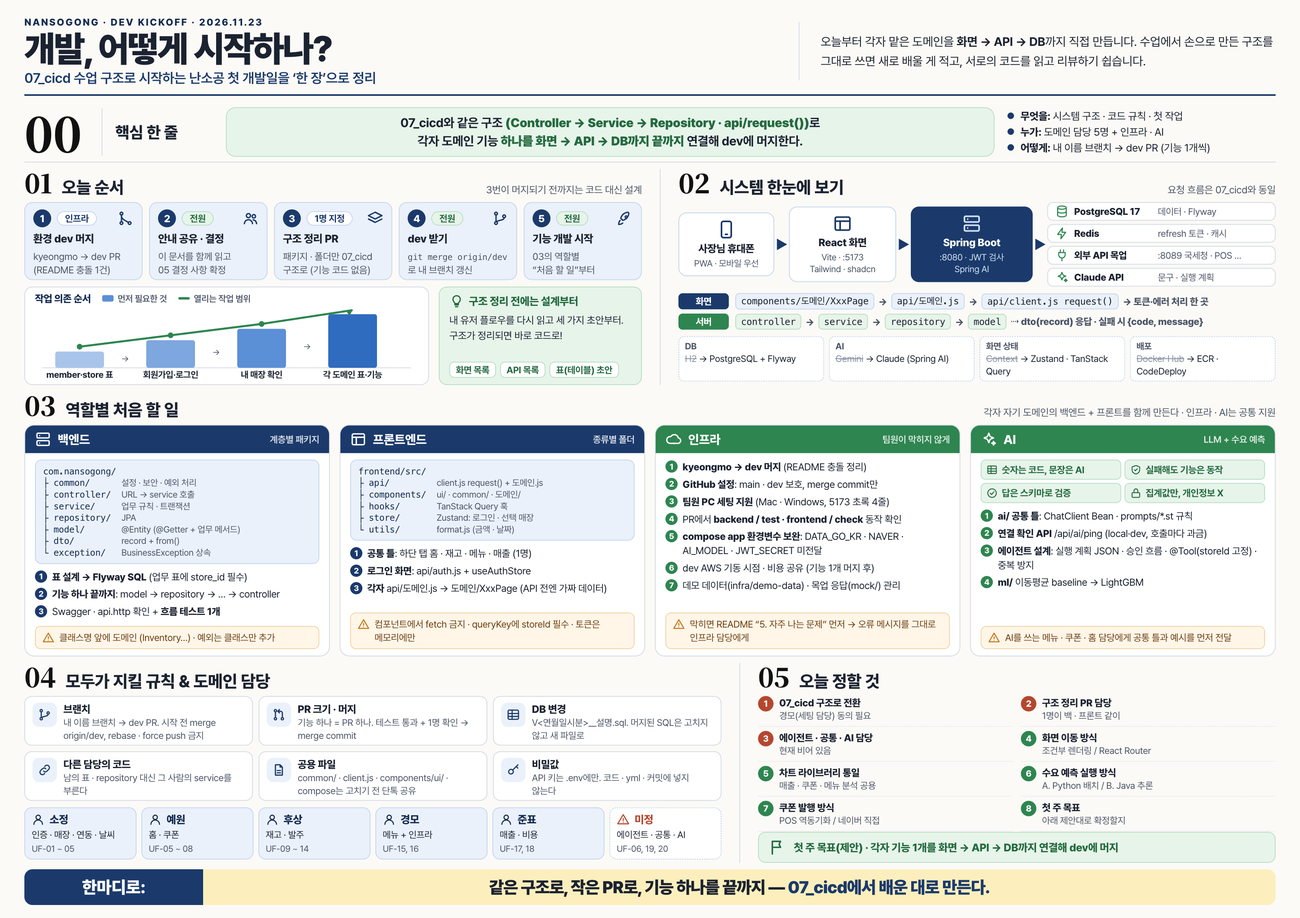
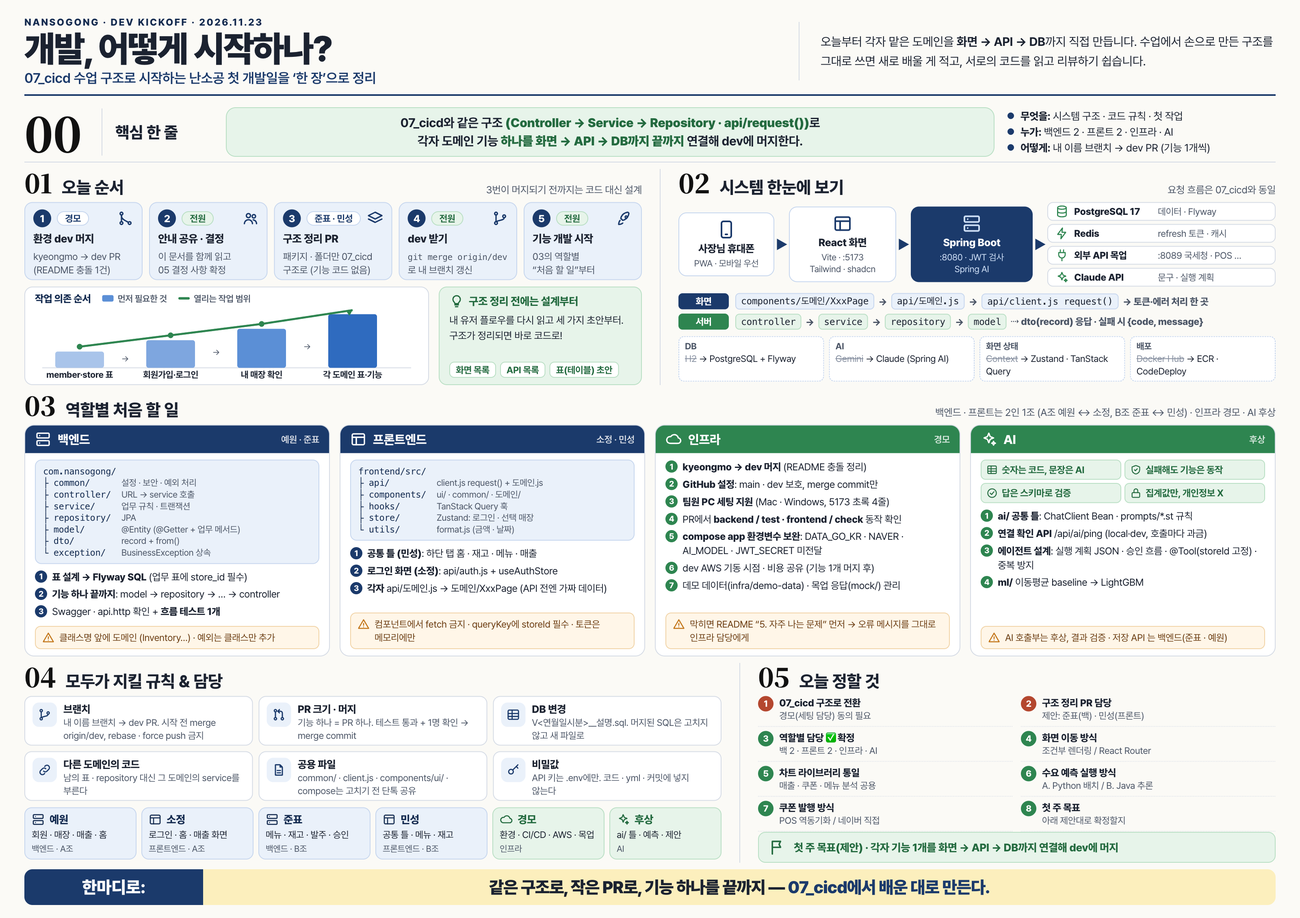
[DOCS]: 역할별 담당 배분 반영
- 백엔드 예원(A조) · 준표(B조), 프론트 소정(A조) · 민성(B조), 인프라 경모, AI 후상
- README 담당 표, package-info 11개, features/README 의 도메인별 담당 수정
- 데모 데이터 · 목업 · ml 의 "담당자" 표기를 실제 역할로 수정
- 개발 시작 안내 7장 · 인포그래픽 담당 갱신

diff --git a/docs/notice/kickoff-infographic.html b/docs/notice/kickoff-infographic.html
@@ -132,10 +132,10 @@ ol.todo li b{font-weight:800}
 .own{border:1px solid var(--navy-b);border-radius:9px;background:var(--navy-l);padding:6px 8px;display:flex;flex-direction:column;gap:3px}
 .own .nm{display:flex;align-items:center;gap:6px;font-size:13.5px;font-weight:800;color:var(--navy-d)}
 .own .nm svg{width:16px;height:16px}
-.own .dm{font-size:11.5px;line-height:1.35}
+.own .dm{font-size:11.5px;line-height:1.35;white-space:nowrap}
 .own .uf{font-size:10.8px;color:var(--muted)}
-.own.tbd{background:#fff;border-style:dashed}
-.own.tbd .nm{color:var(--warn)}
+.own.mint{background:var(--mint-l);border-color:var(--mint-b)}
+.own.mint .nm{color:var(--mint-d)}
 
 /* 05 decisions */
 .dec{display:grid;grid-template-columns:1fr 1fr;gap:5px 10px}
@@ -208,7 +208,7 @@ ol.todo li b{font-weight:800}
       각자 도메인 기능 <b>하나를 화면 → API → DB까지 끝까지</b> 연결해 dev에 머지한다.</div>
     <ul>
       <li><b>무엇을:</b> 시스템 구조 · 코드 규칙 · 첫 작업</li>
-      <li><b>누가:</b> 도메인 담당 5명 + 인프라 · AI</li>
+      <li><b>누가:</b> 백엔드 2 · 프론트 2 · 인프라 · AI</li>
       <li><b>어떻게:</b> 내 이름 브랜치 → dev PR (기능 1개씩)</li>
     </ul>
   </section>
@@ -218,11 +218,11 @@ ol.todo li b{font-weight:800}
     <section class="sec">
       <div class="sh"><span class="num">01</span><h2>오늘 순서</h2><span class="note">3번이 머지되기 전까지는 코드 대신 설계</span></div>
       <div class="steps">
-        <div class="step"><div class="top"><span class="badge">1</span><span class="who">인프라</span><svg class="i"><use href="#i-merge"/></svg></div>
+        <div class="step"><div class="top"><span class="badge">1</span><span class="who">경모</span><svg class="i"><use href="#i-merge"/></svg></div>
           <h3>환경 dev 머지</h3><p>kyeongmo → dev PR<br>(README 충돌 1건)</p></div>
         <div class="step"><div class="top"><span class="badge">2</span><span class="who all">전원</span><svg class="i"><use href="#i-users"/></svg></div>
           <h3>안내 공유 · 결정</h3><p>이 문서를 함께 읽고<br>05 결정 사항 확정</p></div>
-        <div class="step"><div class="top"><span class="badge">3</span><span class="who">1명 지정</span><svg class="i"><use href="#i-layers"/></svg></div>
+        <div class="step"><div class="top"><span class="badge">3</span><span class="who">준표 · 민성</span><svg class="i"><use href="#i-layers"/></svg></div>
           <h3>구조 정리 PR</h3><p>패키지 · 폴더만 07_cicd<br>구조로 (기능 코드 없음)</p></div>
         <div class="step"><div class="top"><span class="badge">4</span><span class="who all">전원</span><svg class="i"><use href="#i-git"/></svg></div>
           <h3>dev 받기</h3><p><code style="font-family:var(--mono);font-size:10.5px">git merge origin/dev</code> 로 내 브랜치 갱신</p></div>
@@ -293,10 +293,10 @@ ol.todo li b{font-weight:800}
 
   <!-- ROW B : 03 -->
   <section class="sec">
-    <div class="sh"><span class="num">03</span><h2>역할별 처음 할 일</h2><span class="note">각자 자기 도메인의 백엔드 + 프론트를 함께 만든다 · 인프라 · AI는 공통 지원</span></div>
+    <div class="sh"><span class="num">03</span><h2>역할별 처음 할 일</h2><span class="note">백엔드 · 프론트는 2인 1조 (A조 예원 ↔ 소정, B조 준표 ↔ 민성) · 인프라 경모 · AI 후상</span></div>
     <div class="roles">
       <div class="role">
-        <div class="rh"><svg class="i"><use href="#i-server"/></svg>백엔드<small>계층별 패키지</small></div>
+        <div class="rh"><svg class="i"><use href="#i-server"/></svg>백엔드<small>예원 · 준표</small></div>
         <div class="rb">
 <pre class="tree">com.nansogong/
 ├ common/      <em>설정 · 보안 · 예외 처리</em>
@@ -315,7 +315,7 @@ ol.todo li b{font-weight:800}
         </div>
       </div>
       <div class="role">
-        <div class="rh"><svg class="i"><use href="#i-layout"/></svg>프론트엔드<small>종류별 폴더</small></div>
+        <div class="rh"><svg class="i"><use href="#i-layout"/></svg>프론트엔드<small>소정 · 민성</small></div>
         <div class="rb">
 <pre class="tree">frontend/src/
 ├ api/         <em>client.js request() + 도메인.js</em>
@@ -324,15 +324,15 @@ ol.todo li b{font-weight:800}
 ├ store/       <em>Zustand: 로그인 · 선택 매장</em>
 └ utils/       <em>format.js (금액 · 날짜)</em></pre>
           <ol class="todo">
-            <li><b>공통 틀</b>: 하단 탭 홈 · 재고 · 메뉴 · 매출 (1명)</li>
-            <li><b>로그인 화면</b>: api/auth.js + useAuthStore</li>
+            <li><b>공통 틀 (민성)</b>: 하단 탭 홈 · 재고 · 메뉴 · 매출</li>
+            <li><b>로그인 화면 (소정)</b>: api/auth.js + useAuthStore</li>
             <li><b>각자</b> api/도메인.js → 도메인/XxxPage (API 전엔 가짜 데이터)</li>
           </ol>
           <div class="warn"><svg class="i"><use href="#i-alert"/></svg><span>컴포넌트에서 fetch 금지 · queryKey에 storeId 필수 · 토큰은 메모리에만</span></div>
         </div>
       </div>
       <div class="role mint">
-        <div class="rh"><svg class="i"><use href="#i-cloud"/></svg>인프라<small>팀원이 막히지 않게</small></div>
+        <div class="rh"><svg class="i"><use href="#i-cloud"/></svg>인프라<small>경모</small></div>
         <div class="rb">
           <ol class="todo">
             <li><b>kyeongmo → dev 머지</b> (README 충돌 정리)</li>
@@ -347,7 +347,7 @@ ol.todo li b{font-weight:800}
         </div>
       </div>
       <div class="role mint">
-        <div class="rh"><svg class="i"><use href="#i-spark"/></svg>AI<small>LLM + 수요 예측</small></div>
+        <div class="rh"><svg class="i"><use href="#i-spark"/></svg>AI<small>후상</small></div>
         <div class="rb">
           <div class="prin">
             <div><svg class="i"><use href="#i-table"/></svg>숫자는 코드, 문장은 AI</div>
@@ -361,7 +361,7 @@ ol.todo li b{font-weight:800}
             <li><b>에이전트 설계</b>: 실행 계획 JSON · 승인 흐름 · @Tool(storeId 고정) · 중복 방지</li>
             <li><b>ml/</b> 이동평균 baseline → LightGBM</li>
           </ol>
-          <div class="warn"><svg class="i"><use href="#i-alert"/></svg><span>AI를 쓰는 메뉴 · 쿠폰 · 홈 담당에게 공통 틀과 예시를 먼저 전달</span></div>
+          <div class="warn"><svg class="i"><use href="#i-alert"/></svg><span>AI 호출부는 후상, 결과 검증 · 저장 API 는 백엔드(준표 · 예원)</span></div>
         </div>
       </div>
     </div>
@@ -370,22 +370,22 @@ ol.todo li b{font-weight:800}
   <!-- ROW C : 04 + 05 -->
   <div class="row rC">
     <section class="sec">
-      <div class="sh"><span class="num">04</span><h2>모두가 지킬 규칙 &amp; 도메인 담당</h2></div>
+      <div class="sh"><span class="num">04</span><h2>모두가 지킬 규칙 &amp; 담당</h2></div>
       <div class="rules">
         <div class="rule"><span class="ic"><svg class="i"><use href="#i-git"/></svg></span><div><b>브랜치</b><p>내 이름 브랜치 → dev PR. 시작 전 merge origin/dev, rebase · force push 금지</p></div></div>
         <div class="rule"><span class="ic"><svg class="i"><use href="#i-pr"/></svg></span><div><b>PR 크기 · 머지</b><p>기능 하나 = PR 하나. 테스트 통과 + 1명 확인 → merge commit</p></div></div>
         <div class="rule"><span class="ic"><svg class="i"><use href="#i-table"/></svg></span><div><b>DB 변경</b><p>V&lt;연월일시분&gt;__설명.sql. 머지된 SQL은 고치지 않고 새 파일로</p></div></div>
-        <div class="rule"><span class="ic"><svg class="i"><use href="#i-link"/></svg></span><div><b>다른 담당의 코드</b><p>남의 표 · repository 대신 그 사람의 service를 부른다</p></div></div>
+        <div class="rule"><span class="ic"><svg class="i"><use href="#i-link"/></svg></span><div><b>다른 도메인의 코드</b><p>남의 표 · repository 대신 그 도메인의 service를 부른다</p></div></div>
         <div class="rule"><span class="ic"><svg class="i"><use href="#i-file"/></svg></span><div><b>공용 파일</b><p>common/ · client.js · components/ui/ · compose는 고치기 전 단톡 공유</p></div></div>
         <div class="rule"><span class="ic"><svg class="i"><use href="#i-key"/></svg></span><div><b>비밀값</b><p>API 키는 .env에만. 코드 · yml · 커밋에 넣지 않는다</p></div></div>
       </div>
       <div class="owners">
-        <div class="own"><div class="nm"><svg class="i"><use href="#i-user"/></svg>소정</div><div class="dm">인증 · 매장 · 연동 · 날씨</div><div class="uf">UF-01 ~ 05</div></div>
-        <div class="own"><div class="nm"><svg class="i"><use href="#i-user"/></svg>예원</div><div class="dm">홈 · 쿠폰</div><div class="uf">UF-05 ~ 08</div></div>
-        <div class="own"><div class="nm"><svg class="i"><use href="#i-user"/></svg>후상</div><div class="dm">재고 · 발주</div><div class="uf">UF-09 ~ 14</div></div>
-        <div class="own"><div class="nm"><svg class="i"><use href="#i-user"/></svg>경모</div><div class="dm">메뉴 + 인프라</div><div class="uf">UF-15, 16</div></div>
-        <div class="own"><div class="nm"><svg class="i"><use href="#i-user"/></svg>준표</div><div class="dm">매출 · 비용</div><div class="uf">UF-17, 18</div></div>
-        <div class="own tbd"><div class="nm"><svg class="i"><use href="#i-alert"/></svg>미정</div><div class="dm">에이전트 · 공통 · AI</div><div class="uf">UF-06, 19, 20</div></div>
+        <div class="own"><div class="nm"><svg class="i"><use href="#i-server"/></svg>예원</div><div class="dm">회원 · 매장 · 매출 · 홈</div><div class="uf">백엔드 · A조</div></div>
+        <div class="own"><div class="nm"><svg class="i"><use href="#i-layout"/></svg>소정</div><div class="dm">로그인 · 홈 · 매출 화면</div><div class="uf">프론트엔드 · A조</div></div>
+        <div class="own"><div class="nm"><svg class="i"><use href="#i-server"/></svg>준표</div><div class="dm">메뉴 · 재고 · 발주 · 승인</div><div class="uf">백엔드 · B조</div></div>
+        <div class="own"><div class="nm"><svg class="i"><use href="#i-layout"/></svg>민성</div><div class="dm">공통 틀 · 메뉴 · 재고</div><div class="uf">프론트엔드 · B조</div></div>
+        <div class="own mint"><div class="nm"><svg class="i"><use href="#i-cloud"/></svg>경모</div><div class="dm">환경 · CI/CD · AWS · 목업</div><div class="uf">인프라</div></div>
+        <div class="own mint"><div class="nm"><svg class="i"><use href="#i-spark"/></svg>후상</div><div class="dm">ai/ 틀 · 예측 · 제안</div><div class="uf">AI</div></div>
       </div>
     </section>
 
@@ -393,8 +393,8 @@ ol.todo li b{font-weight:800}
       <div class="sh"><span class="num">05</span><h2>오늘 정할 것</h2></div>
       <div class="dec">
         <div class="d"><span class="badge hot">1</span><div><b>07_cicd 구조로 전환</b><span>경모(세팅 담당) 동의 필요</span></div></div>
-        <div class="d"><span class="badge hot">2</span><div><b>구조 정리 PR 담당</b><span>1명이 백 · 프론트 같이</span></div></div>
-        <div class="d"><span class="badge hot">3</span><div><b>에이전트 · 공통 · AI 담당</b><span>현재 비어 있음</span></div></div>
+        <div class="d"><span class="badge hot">2</span><div><b>구조 정리 PR 담당</b><span>제안: 준표(백) · 민성(프론트)</span></div></div>
+        <div class="d"><span class="badge">3</span><div><b>역할별 담당 ✅ 확정</b><span>백 2 · 프론트 2 · 인프라 · AI</span></div></div>
         <div class="d"><span class="badge">4</span><div><b>화면 이동 방식</b><span>조건부 렌더링 / React Router</span></div></div>
         <div class="d"><span class="badge">5</span><div><b>차트 라이브러리 통일</b><span>매출 · 쿠폰 · 메뉴 분석 공용</span></div></div>
         <div class="d"><span class="badge">6</span><div><b>수요 예측 실행 방식</b><span>A. Python 배치 / B. Java 추론</span></div></div>

diff --git a/backend/src/main/java/com/nansogong/agent/package-info.java b/backend/src/main/java/com/nansogong/agent/package-info.java
@@ -1,10 +1,12 @@
 /**
- * 담당: 미정(공통) · 유저 플로우: UF-06, UF-19, UF-20
+ * 담당: 백엔드 준표(승인 · 수정 · 재승인, 중복 방지, 이력: 6-3, 6-4, 6-6, 6-7) · 프론트엔드 민성(승인 · 실행 이력 화면) · AI 후상(수요 예측 6-1, 제안 · 실행 계획 생성 6-2, Tool Calling 6-5, 결과 분석 · 보정 6-8, 6-9)
+ * <p>
+ * 유저 플로우: UF-06, UF-19, UF-20
  * <p>
  * 요구사항: 구현-6-1 수요 예측, 6-2 운영 제안·실행 계획 생성, 6-3 승인·보류·반려, 6-4 수정·재승인, 6-5 Tool Calling 실행, 6-6 중복 실행 방지, 6-7 이력, 6-8 실행 결과 분석, 6-9 피드백 보정
  * <p>
  * 개발 메모: LLM 에는 매장 집계값만(개인정보 미전송). 실행 계획은 JSON 스키마로 받아 검증. 수요 예측 실험은 ml/ 폴더
  * <p>
- * 이 패키지 안에서 controller · service · repository · domain · dto 로 나눈다. 다른 담당 패키지의 표를 직접 수정하지 말고 그 패키지의 service 를 부른다.
+ * 이 패키지 안에서 controller · service · repository · domain · dto 로 나눈다. 다른 도메인 패키지의 표를 직접 수정하지 말고 그 패키지의 service 를 부른다. AI 호출(프롬프트 · ChatClient · @Tool)은 AI 담당이 만들고, 이 패키지는 그 결과를 검증 · 저장한다.
  */
 package com.nansogong.agent;

diff --git a/backend/src/main/java/com/nansogong/coupon/package-info.java b/backend/src/main/java/com/nansogong/coupon/package-info.java
@@ -1,10 +1,12 @@
 /**
- * 담당: 예원 · 유저 플로우: UF-07, UF-08
+ * 담당: 백엔드 예원 · 프론트엔드 소정 · AI 후상(2-6 추천 문구 · 근거 생성)
  * <p>
- * 요구사항: 구현-2-6 쿠폰 추천안 생성, 2-7 추천안 조회·수정, 2-8 발행 결정, 5-6 쿠폰 사용 현황(매출 탭 화면은 준표와 협의)
+ * 유저 플로우: UF-07, UF-08
+ * <p>
+ * 요구사항: 구현-2-6 쿠폰 추천안 생성, 2-7 추천안 조회·수정, 2-8 발행 결정, 5-6 쿠폰 사용 현황(매출 탭 안에 표시)
  * <p>
  * 개발 메모: 할인·예산·손익 계산은 코드, LLM 은 문구·근거만. 기간 충돌은 btree_gist EXCLUDE 제약. POS 등록 목업: X-Mock-Scenario unsupported/timeout
  * <p>
- * 이 패키지 안에서 controller · service · repository · domain · dto 로 나눈다. 다른 담당 패키지의 표를 직접 수정하지 말고 그 패키지의 service 를 부른다.
+ * 이 패키지 안에서 controller · service · repository · domain · dto 로 나눈다. 다른 도메인 패키지의 표를 직접 수정하지 말고 그 패키지의 service 를 부른다. AI 호출(프롬프트 · ChatClient · @Tool)은 AI 담당이 만들고, 이 패키지는 그 결과를 검증 · 저장한다.
  */
 package com.nansogong.coupon;

diff --git a/backend/src/main/java/com/nansogong/purchase/package-info.java b/backend/src/main/java/com/nansogong/purchase/package-info.java
@@ -1,10 +1,12 @@
 /**
- * 담당: 후상 · 유저 플로우: UF-12, UF-13, UF-14
+ * 담당: 백엔드 준표 · 프론트엔드 민성 · AI 후상(6-5 Tool Calling 이 발주 전송 service 를 호출)
+ * <p>
+ * 유저 플로우: UF-12, UF-13, UF-14
  * <p>
  * 요구사항: 구현-3-9 신규 판매처 탐색, 3-10 발주 추천 검토·수정, 3-11 발주 승인·전송, 3-12 주문·배송 상태, 3-13 입고 확인, 3-14 정정 요청
  * <p>
  * 개발 메모: supplierRestClient 사용. 전송에는 Idempotency-Key 필수. 목업: X-Mock-Scenario out-of-stock/partial/timeout
  * <p>
- * 이 패키지 안에서 controller · service · repository · domain · dto 로 나눈다. 다른 담당 패키지의 표를 직접 수정하지 말고 그 패키지의 service 를 부른다.
+ * 이 패키지 안에서 controller · service · repository · domain · dto 로 나눈다. 다른 도메인 패키지의 표를 직접 수정하지 말고 그 패키지의 service 를 부른다. AI 호출(프롬프트 · ChatClient · @Tool)은 AI 담당이 만들고, 이 패키지는 그 결과를 검증 · 저장한다.
  */
 package com.nansogong.purchase;

diff --git a/backend/src/main/java/com/nansogong/inventory/package-info.java b/backend/src/main/java/com/nansogong/inventory/package-info.java
@@ -1,10 +1,12 @@
 /**
- * 담당: 후상 · 유저 플로우: UF-09, UF-10, UF-11
+ * 담당: 백엔드 준표 · 프론트엔드 민성 · AI 후상(3-3 운영 기준에 수요 예측 연계)
+ * <p>
+ * 유저 플로우: UF-09, UF-10, UF-11
  * <p>
  * 요구사항: 구현-3-1 품목, 3-2 초기 재고, 3-3 운영 기준·발주 수량 산정, 3-4 재고 현황, 3-5 판매 기반 추정 재고, 3-6 실사·폐기, 3-7 소비기한, 3-8 부족 알림
  * <p>
  * 개발 메모: 재고 계산은 코드/DB 에서. 주간 실사 알림은 @Scheduled + @SchedulerLock
  * <p>
- * 이 패키지 안에서 controller · service · repository · domain · dto 로 나눈다. 다른 담당 패키지의 표를 직접 수정하지 말고 그 패키지의 service 를 부른다.
+ * 이 패키지 안에서 controller · service · repository · domain · dto 로 나눈다. 다른 도메인 패키지의 표를 직접 수정하지 말고 그 패키지의 service 를 부른다. AI 호출(프롬프트 · ChatClient · @Tool)은 AI 담당이 만들고, 이 패키지는 그 결과를 검증 · 저장한다.
  */
 package com.nansogong.inventory;

diff --git a/backend/src/main/java/com/nansogong/menu/package-info.java b/backend/src/main/java/com/nansogong/menu/package-info.java
@@ -1,10 +1,12 @@
 /**
- * 담당: 경모 · 유저 플로우: UF-15, UF-16
+ * 담당: 백엔드 준표 · 프론트엔드 민성 · AI 후상(4-2 레시피 추천, 4-5 신메뉴 · 세트 추천)
+ * <p>
+ * 유저 플로우: UF-15, UF-16
  * <p>
  * 요구사항: 구현-4-1 메뉴 등록·수정, 4-2 레시피 AI 추천·수정, 4-3 원가·원가율, 4-4 인기·부진 분석, 4-5 AI 신메뉴·세트 추천
  * <p>
  * 개발 메모: 트렌드는 naverDatalabRestClient. 추천·레시피 초안은 Spring AI ChatClient, 예상 마진은 코드로 계산
  * <p>
- * 이 패키지 안에서 controller · service · repository · domain · dto 로 나눈다. 다른 담당 패키지의 표를 직접 수정하지 말고 그 패키지의 service 를 부른다.
+ * 이 패키지 안에서 controller · service · repository · domain · dto 로 나눈다. 다른 도메인 패키지의 표를 직접 수정하지 말고 그 패키지의 service 를 부른다. AI 호출(프롬프트 · ChatClient · @Tool)은 AI 담당이 만들고, 이 패키지는 그 결과를 검증 · 저장한다.
  */
 package com.nansogong.menu;

diff --git a/backend/src/main/java/com/nansogong/integration/package-info.java b/backend/src/main/java/com/nansogong/integration/package-info.java
@@ -1,10 +1,12 @@
 /**
- * 담당: 소정 · 유저 플로우: UF-03, UF-04
+ * 담당: 백엔드 예원 · 프론트엔드 소정
+ * <p>
+ * 유저 플로우: UF-03, UF-04
  * <p>
  * 요구사항: 구현-1-7 POS·외부 서비스 연결, 1-8 마이데이터, 1-9 POS 판매 수집, 1-10 재고·거래처 수집, 1-11 표준화·통합, 1-12 동기화 상태, 1-14 POS 메뉴 연결
  * <p>
  * 개발 메모: posRestClient · supplierRestClient · mydataRestClient 사용. 연동 인증 정보는 app.crypto.credential-key 로 암호화 저장. 원본 payload 는 JSONB(@JdbcTypeCode(SqlTypes.JSON)). 메뉴명 유사도는 pg_trgm
  * <p>
- * 이 패키지 안에서 controller · service · repository · domain · dto 로 나눈다. 다른 담당 패키지의 표를 직접 수정하지 말고 그 패키지의 service 를 부른다.
+ * 이 패키지 안에서 controller · service · repository · domain · dto 로 나눈다. 다른 도메인 패키지의 표를 직접 수정하지 말고 그 패키지의 service 를 부른다.
  */
 package com.nansogong.integration;

diff --git a/backend/src/main/java/com/nansogong/home/package-info.java b/backend/src/main/java/com/nansogong/home/package-info.java
@@ -1,10 +1,12 @@
 /**
- * 담당: 예원 · 유저 플로우: UF-05, UF-06
+ * 담당: 백엔드 예원 · 프론트엔드 소정 · AI 후상(2-3 운영 제안 생성은 agent)
+ * <p>
+ * 유저 플로우: UF-05, UF-06
  * <p>
  * 요구사항: 구현-2-1 당장 할 일, 2-2 오늘 매출 요약, 2-3 운영 제안 3줄·전체보기, 2-4 운영 일정 캘린더, 2-5 주변 일정 관리
  * <p>
  * 개발 메모: 공휴일은 holidayRestClient. 운영 제안 생성 자체는 agent 패키지
  * <p>
- * 이 패키지 안에서 controller · service · repository · domain · dto 로 나눈다. 다른 담당 패키지의 표를 직접 수정하지 말고 그 패키지의 service 를 부른다.
+ * 이 패키지 안에서 controller · service · repository · domain · dto 로 나눈다. 다른 도메인 패키지의 표를 직접 수정하지 말고 그 패키지의 service 를 부른다. AI 호출(프롬프트 · ChatClient · @Tool)은 AI 담당이 만들고, 이 패키지는 그 결과를 검증 · 저장한다.
  */
 package com.nansogong.home;

diff --git a/backend/src/main/java/com/nansogong/weather/package-info.java b/backend/src/main/java/com/nansogong/weather/package-info.java
@@ -1,10 +1,12 @@
 /**
- * 담당: 소정 · 유저 플로우: UF-02, UF-05
+ * 담당: 백엔드 예원 · 프론트엔드 소정 · AI 후상(수요 예측 입력으로 사용)
+ * <p>
+ * 유저 플로우: UF-02, UF-05
  * <p>
  * 요구사항: 구현-1-13 날씨 정보 수집
  * <p>
  * 개발 메모: kmaRestClient 사용. 격자 단위 Redis 캐시, @Scheduled + @SchedulerLock 으로 주기 수집. 목업에서 nx=0 이면 503(장애 테스트)
  * <p>
- * 이 패키지 안에서 controller · service · repository · domain · dto 로 나눈다. 다른 담당 패키지의 표를 직접 수정하지 말고 그 패키지의 service 를 부른다.
+ * 이 패키지 안에서 controller · service · repository · domain · dto 로 나눈다. 다른 도메인 패키지의 표를 직접 수정하지 말고 그 패키지의 service 를 부른다. AI 호출(프롬프트 · ChatClient · @Tool)은 AI 담당이 만들고, 이 패키지는 그 결과를 검증 · 저장한다.
  */
 package com.nansogong.weather;

diff --git a/backend/src/main/java/com/nansogong/auth/package-info.java b/backend/src/main/java/com/nansogong/auth/package-info.java
@@ -1,10 +1,12 @@
 /**
- * 담당: 소정 · 유저 플로우: UF-01, UF-02
+ * 담당: 백엔드 예원 · 프론트엔드 소정
+ * <p>
+ * 유저 플로우: UF-01, UF-02
  * <p>
  * 요구사항: 구현-1-1 회원가입, 1-3 로그인·로그아웃(JWT access/refresh), 1-4 비밀번호 재설정, 1-5 회원 정보, 7-1 접근 제어, 7-2 민감 정보 PIN 잠금
  * <p>
  * 개발 메모: 휴대폰 본인인증은 app.verification.mode=mock 이면 인증번호 000000. refresh 토큰은 Redis 에 저장하고 로그아웃 때 삭제
  * <p>
- * 이 패키지 안에서 controller · service · repository · domain · dto 로 나눈다. 다른 담당 패키지의 표를 직접 수정하지 말고 그 패키지의 service 를 부른다.
+ * 이 패키지 안에서 controller · service · repository · domain · dto 로 나눈다. 다른 도메인 패키지의 표를 직접 수정하지 말고 그 패키지의 service 를 부른다.
  */
 package com.nansogong.auth;

diff --git a/backend/src/main/java/com/nansogong/sales/package-info.java b/backend/src/main/java/com/nansogong/sales/package-info.java
@@ -1,10 +1,12 @@
 /**
- * 담당: 준표 · 유저 플로우: UF-17, UF-18
+ * 담당: 백엔드 예원 · 프론트엔드 소정
+ * <p>
+ * 유저 플로우: UF-17, UF-18
  * <p>
  * 요구사항: 구현-5-1 기간별 매출, 5-2 재무 캘린더, 5-3 비용 등록, 5-4 원가율·비용 구성, 5-5 예상 이익
  * <p>
  * 개발 메모: date_trunc · generate_series 집계, 일별 요약은 머티리얼라이즈드 뷰. 매출(판매일)과 입출금(거래일)은 합산하지 않는다
  * <p>
- * 이 패키지 안에서 controller · service · repository · domain · dto 로 나눈다. 다른 담당 패키지의 표를 직접 수정하지 말고 그 패키지의 service 를 부른다.
+ * 이 패키지 안에서 controller · service · repository · domain · dto 로 나눈다. 다른 도메인 패키지의 표를 직접 수정하지 말고 그 패키지의 service 를 부른다.
  */
 package com.nansogong.sales;

diff --git a/backend/src/main/java/com/nansogong/store/package-info.java b/backend/src/main/java/com/nansogong/store/package-info.java
@@ -1,10 +1,12 @@
 /**
- * 담당: 소정 · 유저 플로우: UF-01, UF-02
+ * 담당: 백엔드 예원 · 프론트엔드 소정
+ * <p>
+ * 유저 플로우: UF-01, UF-02
  * <p>
  * 요구사항: 구현-1-2 사업자 등록·검증(복수), 1-6 매장 등록·수정·전환
  * <p>
  * 개발 메모: 국세청 API 는 @Qualifier("ntsRestClient"). 목업 번호: 9999999999 폐업, 7777777777 휴업, 8888888888 진위 불일치
  * <p>
- * 이 패키지 안에서 controller · service · repository · domain · dto 로 나눈다. 다른 담당 패키지의 표를 직접 수정하지 말고 그 패키지의 service 를 부른다.
+ * 이 패키지 안에서 controller · service · repository · domain · dto 로 나눈다. 다른 도메인 패키지의 표를 직접 수정하지 말고 그 패키지의 service 를 부른다.
  */
 package com.nansogong.store;
